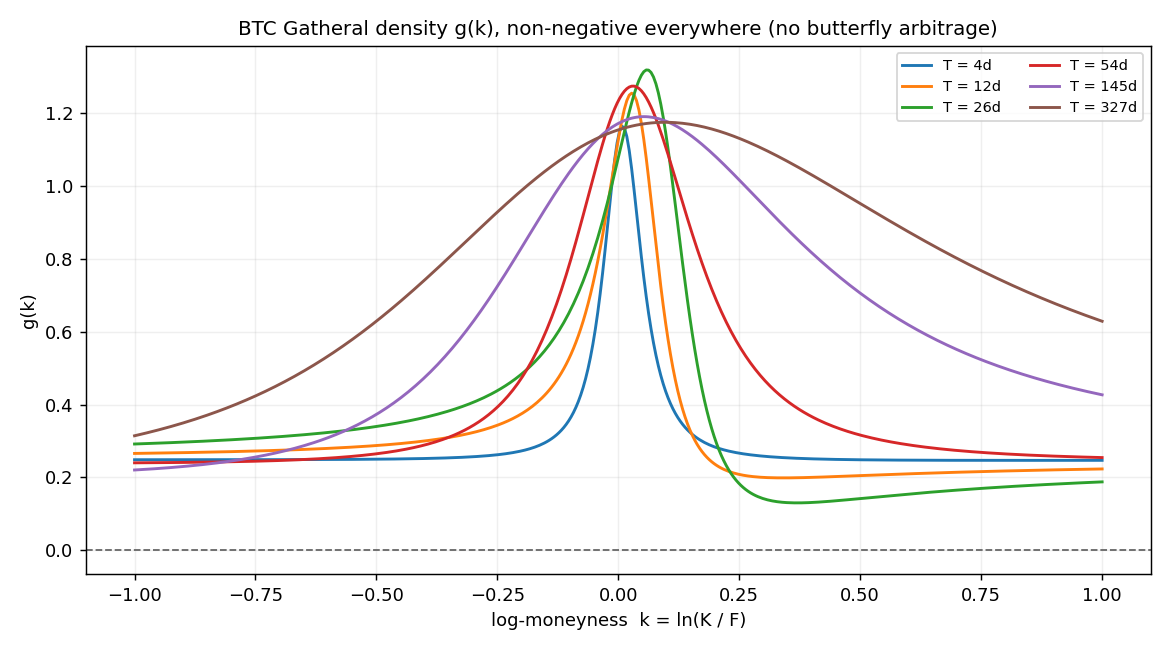
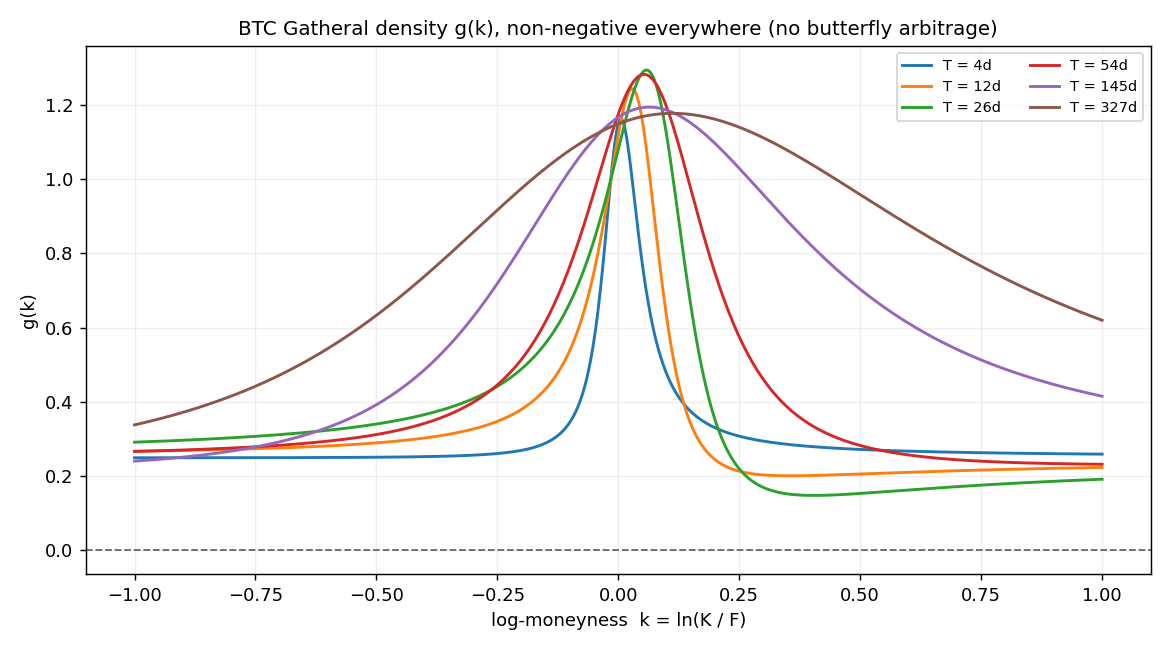
weight svi fit in vol space, keep total variance positive, add atm helpers

diff --git a/src/volsurface/svi.py b/src/volsurface/svi.py
@@ -13,6 +13,7 @@ The fit enforces g >= 0 on a grid, so the calibrated slice is arbitrage-free.
 """
 from __future__ import annotations
 
+import math
 from typing import NamedTuple, Optional
 
 import numpy as np
@@ -61,6 +62,23 @@ def density_g(k, p: SVIParams):
     return (1.0 - k * wp / (2.0 * w)) ** 2 - (wp * wp / 4.0) * (1.0 / w + 0.25) + wpp / 2.0
 
 
+def min_total_variance(p: SVIParams) -> float:
+    """Minimum of w over all k, reached at k = m - rho*s/sqrt(1-rho^2).
+
+    Must be non-negative for the slice to be a valid variance curve.
+    """
+    return p.a + p.b * p.s * math.sqrt(max(0.0, 1.0 - p.rho * p.rho))
+
+
+def atm_total_variance(p: SVIParams) -> float:
+    """Total variance at the forward, k = 0. Feeds the SSVI term structure."""
+    return float(total_variance(0.0, p))
+
+
+def atm_vol(p: SVIParams, T: float) -> float:
+    return math.sqrt(max(atm_total_variance(p), 0.0) / T)
+
+
 def _bounds(k, w):
     return (
         [1e-8, 1e-6, -0.999, float(np.min(k)) - 1.0, 1e-4],
@@ -68,13 +86,17 @@ def _bounds(k, w):
     )
 
 
-def fit_slice(k, w, weights=None, enforce_butterfly: bool = True, T: Optional[float] = None) -> SVIFit:
+def fit_slice(k, w, weights=None, enforce_butterfly: bool = True, T: Optional[float] = None, eps_w: float = 1e-8) -> SVIFit:
     """Calibrate one SVI slice to total-variance points (k, w)."""
     k = np.asarray(k, dtype=float)
     w = np.asarray(w, dtype=float)
-    if weights is None:
-        weights = np.ones_like(w)
-    sqrt_w = np.sqrt(np.asarray(weights, dtype=float))
+    base = np.ones_like(w) if weights is None else np.asarray(weights, dtype=float)
+    # Fit in implied-vol space: a total-variance residual dw is a vol error of
+    # dw / (2*sqrt(w*T)), so weighting by 1/(4 w T) stops the wings from
+    # dominating and lines the objective up with the reported vol RMSE.
+    if T is not None:
+        base = base / (4.0 * np.maximum(w, 1e-8) * T)
+    sqrt_w = np.sqrt(base)
 
     lb, ub = _bounds(k, w)
     i_min = int(np.argmin(w))
@@ -88,15 +110,19 @@ def fit_slice(k, w, weights=None, enforce_butterfly: bool = True, T: Optional[fl
     params = SVIParams(*sol.x)
 
     grid = np.linspace(k.min() - 0.2, k.max() + 0.2, 60)
-    if enforce_butterfly and float(np.min(density_g(grid, params))) < 0.0:
+    infeasible = float(np.min(density_g(grid, params))) < 0.0 or min_total_variance(params) < eps_w
+    if enforce_butterfly and infeasible:
         def objective(theta):
             r = residuals(theta)
             return 0.5 * float(r @ r)
 
-        cons = {"type": "ineq", "fun": lambda theta: density_g(grid, SVIParams(*theta))}
+        cons = [
+            {"type": "ineq", "fun": lambda theta: density_g(grid, SVIParams(*theta))},
+            {"type": "ineq", "fun": lambda theta: min_total_variance(SVIParams(*theta)) - eps_w},
+        ]
         pol = minimize(
             objective, sol.x, method="SLSQP",
-            bounds=list(zip(lb, ub)), constraints=[cons],
+            bounds=list(zip(lb, ub)), constraints=cons,
             options={"maxiter": 500, "ftol": 1e-12},
         )
         if pol.success:

diff --git a/tests/test_svi.py b/tests/test_svi.py
@@ -5,6 +5,9 @@ from volsurface.svi import (
     total_variance,
     density_g,
     fit_slice,
+    atm_total_variance,
+    atm_vol,
+    min_total_variance,
     _w_derivs,
 )
 
@@ -45,6 +48,15 @@ def test_fit_recovers_a_known_smile():
     assert fit.arbitrage_free
     assert np.allclose(total_variance(k, fit.params), w, atol=1e-4)
     assert fit.rmse_vol < 1e-2
+
+
+def test_atm_helpers_and_positive_variance():
+    k = np.linspace(-0.6, 0.6, 21)
+    w = total_variance(k, CALM)
+    fit = fit_slice(k, w, T=0.5)
+    assert min_total_variance(fit.params) > 0.0
+    assert np.isclose(atm_total_variance(fit.params), total_variance(0.0, fit.params))
+    assert np.isclose(atm_vol(fit.params, 0.5), np.sqrt(atm_total_variance(fit.params) / 0.5))
 
 
 def test_fit_stays_arbitrage_free_on_a_steep_smile():
